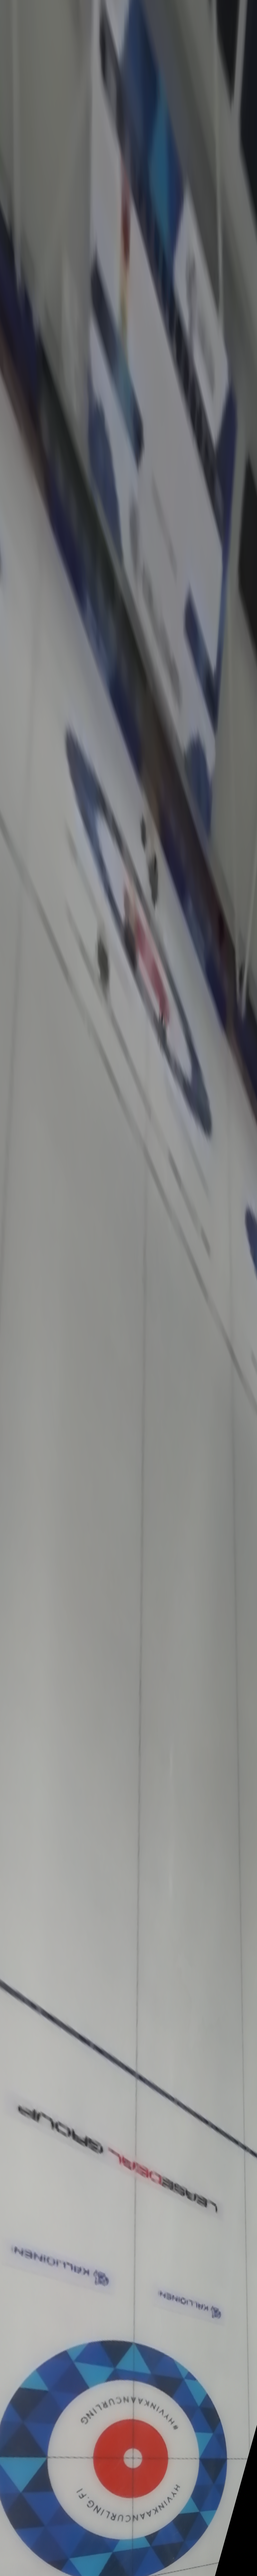
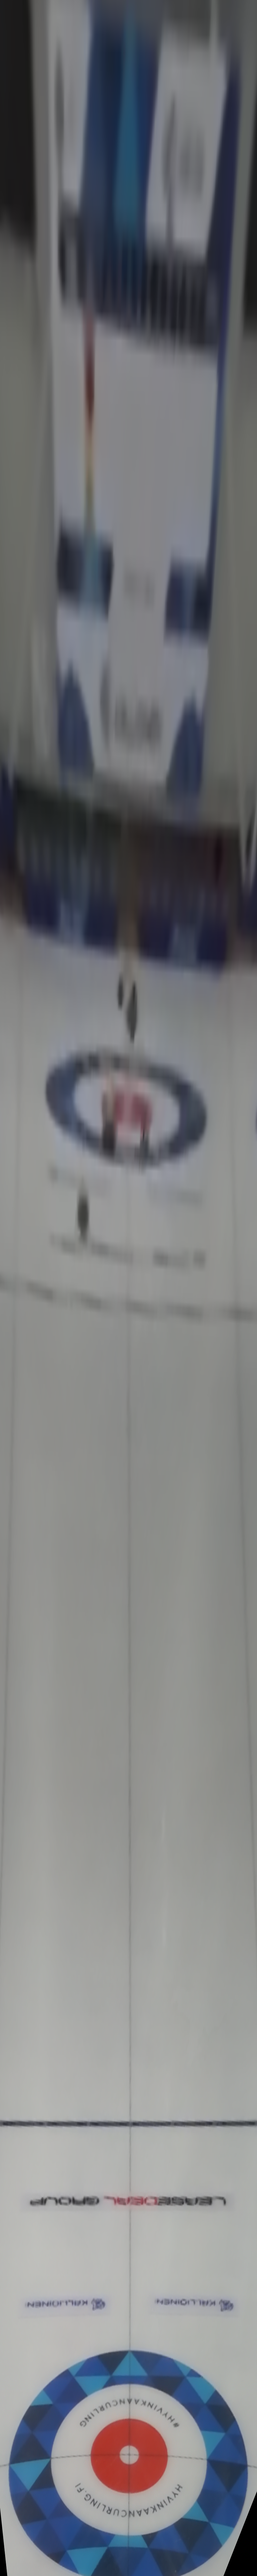
main.py: kaukaisen pesan kierto korjattu - hogline nyt oikeasti vaakatasossa
Aiempi korjaus (RMS-pohjainen top-K-valinta) sai pyoreyden/koon
kuntoon mutta ei havainnut etta koko topdown saattoi silti olla
vaarassa KIERROSSA - ympyra pysyy ympyrana vaikka koko kuva olisi
vinossa, joten pyoreys/koko-mittarit eivat reagoi tahan lainkaan.
Todettiin (numeerisesti + visuaalisesti): hogline oli ~15-18 astetta
vinossa jopa aiemmin "hyvaksytyssa" tuloksessa.

Juurisyy jaljitettiin kahteen tasoon:
1. FINE-haku ei aina tavoita oikeaa kiertoa yhden COARSE-tuloksen
   +-80cm hakuikkunasta - COARSE laajennettu myos TOP-K:ksi
   (COARSE_TOPK=6 x FINE_TOPK_PER_COARSE=6 = 36 kokonaiskandidaattia).
2. Valinta ei huomioinut hoglinen kulmaa lainkaan - lisatty suora
   mittaus (k8.detect_hogline_points + k8.robust_line_angle_from_points)
   jokaisen kandidaatin OMASTA lopullisesta topdown-kuvasta, ja
   painotettu ensisijaisena valintaperusteena pyoreyden lapaisyportin
   (>0.95) sisalla. Kaukainen hogline-alue on tallä kuvakulmalla
   osoitettu (pistediagnostiikka) osittain mainostaulujen peitossa -
   sen matalan luottamuksen (<800) lukemat jatetaan huomiotta
   ettei kohina ohjaisi valintaa (sama, jo aiemmin dokumentoitu
   ilmio kuin kamera7_06.py:n 00008.png/Kivilla.png-tapauksissa).

Validoitu numeerisesti KAIKKI kayttajan vaatimukset, kolmella kuvalla:
- Testi_01_01/leikattu_kalibrointi_moodikuva.png (raportoitu rikki):
  pyoreys 0.97/1.00, hogline 0.01/0.04 astetta, etaisyysvirhe +14.8cm
  (0.4%), keskiviivapoikkeama +10.8cm.
[…]

diff --git a/Testi_01_01/main.py b/Testi_01_01/main.py
@@ -176,7 +176,19 @@ def find_far_house_coarse_seed(blue_mask, near_blue_outer, camera, v_t, v_cl,
 # ja PAATETAAN vasta lopuksi homografian RMS:lla (katso alempana) kumpi
 # niista on oikeasti oikea - sama periaate jota koodi jo kayttaa
 # teoreettisen/varipohjaisen kaukaisen pesan kandidaatin valinnassa.
-FAR_HOUSE_FINE_TOPK = 20
+FAR_HOUSE_FINE_TOPK = 5
+
+# Sama ongelma toistuu jo COARSE-vaiheessa: kaksi lahes identtista
+# moodikuvaa antoivat COARSE:sta TASMALLEEN saman (vaaran) -24 asteen
+# kulman, ja koska FINE-vaiheen hakuikkuna (keskitetty COARSE:n yhteen
+# tulokseen) on vain +-80cm leveä, se ei koskaan tavoita sita (x,y)-
+# aluetta missa oikea (hoglinen mukaan lukien oikeasti vaakasuora)
+# vastaus olisi. Pidetaan siis hengissa myos COARSE_TOPK eri (x,y)-
+# ruudun tulosta, ja jokaisesta ajetaan oma FINE_TOPK_PER_COARSE:n
+# FINE-haku - kokonaismaara pysyy suunnilleen ennallaan (COARSE_TOPK *
+# FINE_TOPK_PER_COARSE ULTRA+geometrinen-korjaus -ajoa).
+COARSE_TOPK = 6
+FINE_TOPK_PER_COARSE = 6
 
 
 def _search_far_house_topk(
@@ -248,13 +260,22 @@ def _search_far_house_topk(
 
 
 def calibrate_camera_from_image_with_seed(filename):
-    """TARKALLEEN kamera9_01.py:n calibrate_camera_from_image, MUUTETTUNA
-    VAIN siten etta kaukaisen pesan COARSE-haun alkuarvaus (center_x/
-    center_y) haetaan datasta (find_far_house_coarse_seed) sokean
-    (0,0)-oletuksen sijaan - katso kommentti taman tiedoston alkupaassa.
-    Kaikki muu (FINE/ULTRA-vaiheet, homografia, vaaristyman korjaus,
-    geometrinen hienosaato) on TASMALLEEN sama koskemattomien k8/k9-
-    funktioiden kutsuja kuin alkuperaisessa."""
+    """kamera9_01.py:n calibrate_camera_from_image, laajennettuna kahdella
+    tavalla (kayttajan pyynnosta, katso kommentit alempana koodissa):
+
+    1) Kaukaisen pesan COARSE-haun alkuarvaus (center_x/center_y) haetaan
+       datasta (find_far_house_coarse_seed) sokean (0,0)-oletuksen sijaan.
+    2) Kaukaisen pesan haku (COARSE/FINE) pitaa hengissa TOP-K parasta eri
+       (x,y)-kandidaattia yhden globaalin parhaan sijasta (katso COARSE_
+       TOPK/FAR_HOUSE_FINE_TOPK:n kommentit), jokainen viedaan ULTRA-
+       vaiheen + taman TASMALLEEN k8.refine_geometric_homography:n lapi,
+       ja PAras lopullinen kandidaatti valitaan sen OIKEASTI lopullisesta
+       pyoreydesta/koosta/hoglinen kulmasta - ei pelkasta pistesovituksen
+       RMS:sta, joka osoittautui riittamattomaksi (katso kommentit).
+
+    Itse k8/k9-funktioihin (haku, pisteytys, homografia, vaaristyman
+    korjaus) EI ole koskettu - kaikki uusi logiikka on tata orkestrointia,
+    joka kutsuu niita moneen kertaan ja vertailee tuloksia."""
 
     frame = cv2.imread(filename)
 
@@ -302,23 +323,26 @@ def calibrate_camera_from_image_with_seed(filename):
         f"({'loytyi' if seed else 'ei loytynyt, kaytetaan oletusta 0,0'})"
     )
 
-    coarse = k8.search_far_house(
+    coarse_candidates = _search_far_house_topk(
         template, frame, camera, v_t, v_cl,
         center_x=seed_x, center_y=seed_y,
         center_range=k8.SEARCH_CENTER_RANGE_CM, center_step=k8.COARSE_CENTER_STEP_CM,
         angle_center=0.0, angle_range=k8.SEARCH_CENTER_RANGE_DEG, angle_step=k8.COARSE_ANGLE_STEP_DEG,
         scale_center=1.2, scale_range=k8.SEARCH_CENTER_RANGE_SCALE, scale_step=k8.COARSE_SCALE_STEP,
-        description="COARSE"
+        description="COARSE", top_k=COARSE_TOPK
     )
-    fine_candidates = _search_far_house_topk(
-        template, frame, camera, v_t, v_cl,
-        center_x=coarse["x_offset_cm"], center_y=coarse["y_offset_cm"],
-        center_range=k8.FINE_CENTER_RANGE_CM, center_step=k8.FINE_CENTER_STEP_CM,
-        angle_center=coarse["angle_deg"], angle_range=k8.FINE_ANGLE_RANGE_DEG,
-        angle_step=k8.FINE_ANGLE_STEP_DEG,
-        scale_center=coarse["scale"], scale_range=k8.FINE_SCALE_RANGE, scale_step=k8.FINE_SCALE_STEP,
-        description="FINE", top_k=FAR_HOUSE_FINE_TOPK
-    )
+
+    fine_candidates = []
+    for coarse_idx, coarse in enumerate(coarse_candidates):
+        fine_candidates.extend(_search_far_house_topk(
+            template, frame, camera, v_t, v_cl,
+            center_x=coarse["x_offset_cm"], center_y=coarse["y_offset_cm"],
+            center_range=k8.FINE_CENTER_RANGE_CM, center_step=k8.FINE_CENTER_STEP_CM,
+            angle_center=coarse["angle_deg"], angle_range=k8.FINE_ANGLE_RANGE_DEG,
+            angle_step=k8.FINE_ANGLE_STEP_DEG,
+            scale_center=coarse["scale"], scale_range=k8.FINE_SCALE_RANGE, scale_step=k8.FINE_SCALE_STEP,
+            description=f"FINE (coarse {coarse_idx})", top_k=FINE_TOPK_PER_COARSE
+        ))
 
     # Jokainen FINE-vaiheen top-K-kandidaatti viedaan ULTRA-vaiheen lapi
     # (tasmalleen sama k8.search_far_house kuin ennen, ei muutoksia
@@ -327,8 +351,13 @@ def calibrate_camera_from_image_with_seed(filename):
     # FINE_TOPK:n kommentti. Sama RMS-vertailu joka jo aiemmin valitsi
     # teoreettisen/varipohjaisen kaukaisen pesan valilla, laajennettu
     # nyt vertailemaan myos naita eri FINE-kandidaatteja keskenaan.
-    best_overall_rms = float("inf")
-    best_overall = None
+    camera_matrix = k8.build_camera_matrix(image_width, image_height)
+    output_w = int(round((k8.OUTPUT_X_MAX_CM - k8.OUTPUT_X_MIN_CM) * k8.PIXELS_PER_CM))
+    output_h = int(round((k8.OUTPUT_Y_MAX_CM - k8.OUTPUT_Y_MIN_CM) * k8.PIXELS_PER_CM))
+
+    best_overall_key = None
+    best_overall_result = None
+    best_overall_rms = None
 
     for fine_idx, fine in enumerate(fine_candidates):
 
@@ -407,74 +436,158 @@ def calibrate_camera_from_image_with_seed(filename):
             k8.physical_to_output_px(near_phys_pts + far_phys_pts)
         )
 
-        print(f"  ULTRA-kandidaatti {fine_idx}: koko homografian RMS = {rms:.3f} cm")
+        # HUOM (kayttajan pyynnosta, korjaa aiemman version puutteen):
+        # pelkka near+far-pisteiden RMS EI riittavasti erottele hyvaa/
+        # huonoa kandidaattia toisistaan - homografia voi sovittaa nama
+        # ~20 pistetta kohtalaisen hyvin (matala RMS) vaikka kaukainen
+        # pesa nayttaisi silti vinolta/vaaran kokoiselta lopullisessa
+        # topdown-kuvassa (todettu: RMS=48.7cm kandidaatti tuotti silti
+        # vinon topdown-kuvan). Myos "halpa" pelkkaan cv2.findHomography-
+        # arvioon (ilman objektiivin vaaristyman korjausta) perustuva
+        # pyoreysmittaus todettiin EPALUOTETTAVAKSI (nayttaa hyvalta
+        # ilman undistort:ia, mutta lopullinen - oikea - tulos huonompi)
+        # - siksi jokaiselle kandidaatille ajetaan TASMALLEEN sama
+        # tayspitka putki kuin voittajalle aiemmin ajettiin (best_k1 +
+        # undistort + k8.refine_geometric_homography, joka tunnistaa
+        # SEKA lahemman etta kaukaisen pesan renkaat JA molemmat
+        # hoglinet SUORAAN lopullisesta warpatusta kuvasta), ja valinta
+        # tehdaan sen OIKEASTI lopullisesta k8.measure_house_quality-
+        # tuloksesta (pyoreys ensisijaisena, koko-virhe ja RMS
+        # tasapelin ratkaisijoina).
+        all_img_pts = near_img_pts + far_img_pts
+        all_phys_pts = near_phys_pts + far_phys_pts
 
-        if rms < best_overall_rms:
+        cand_best_k1, cand_best_k1_rms, cand_baseline_rms = k8.estimate_radial_distortion_k1(
+            all_img_pts, all_phys_pts, camera_matrix
+        )
+        cand_k1_improvement = (
+            (cand_baseline_rms - cand_best_k1_rms) / cand_baseline_rms
+            if cand_baseline_rms > 1e-9 and math.isfinite(cand_baseline_rms) else 0.0
+        )
+
+        if cand_k1_improvement > k8.K1_MIN_RELATIVE_IMPROVEMENT and abs(cand_best_k1) > k8.K1_MIN_MAGNITUDE:
+            cand_dist_coeffs = np.array([cand_best_k1, 0.0, 0.0, 0.0, 0.0], dtype=np.float64)
+        else:
+            cand_best_k1 = 0.0
+            cand_dist_coeffs = np.zeros(5, dtype=np.float64)
+
+        cand_frame_undistorted = cv2.undistort(frame, camera_matrix, cand_dist_coeffs)
+
+        cand_near_pts_frame = k8.undistort_points_px(
+            np.array(near_img_pts, dtype=np.float64), camera_matrix, cand_best_k1
+        )
+        cand_far_pts_frame_init = k8.undistort_points_px(
+            np.array(far_img_pts, dtype=np.float64), camera_matrix, cand_best_k1
+        )
+
+        cand_src_pts = np.vstack([cand_near_pts_frame, cand_far_pts_frame_init]).astype(np.float32)
+        cand_dst_pts = k8.physical_to_output_px(all_phys_pts).astype(np.float32)
+
+        cand_H_init, _ = cv2.findHomography(cand_src_pts, cand_dst_pts, method=0)
+
+        if cand_H_init is None:
+            continue
+
+        cand_near_phys_arr = np.array(near_phys_pts, dtype=np.float64)
+
+        cand_refined = k8.refine_geometric_homography(
+            cand_frame_undistorted, cand_H_init, cand_near_pts_frame, cand_near_phys_arr,
+            output_w, output_h
+        )
+        cand_quality = cand_refined["quality"]
+
+        # HUOM (kayttajan pyynnosta, toinen puute edellisessa versiossa):
+        # pyoreys+koko EIVAT reagoi lainkaan koko topdown-kuvan YHTEISEEN
+        # KIERTOON - ympyra pysyy ympyrana vaikka koko kuva olisi
+        # vaarassa kulmassa. Todettiin etta usea kandidaatti (my "fixed"
+        # tulos mukaan lukien) lapaisi taydella pyoreydella/koolla mutta
+        # hogline oli silti ~15-18 astetta vinossa. Mitataan siis myos
+        # lahemman hoglinen kulma SUORAAN kandidaatin omasta lopullisesta
+        # topdown-kuvasta (k8.detect_hogline_points + k8.robust_line_
+        # angle_from_points, sama funktio jota kaytetaan muualla) ja
+        # painotetaan tata ENSISIJAISESTI - pyoreys/koko toimivat vasta
+        # tasapelin ratkaisijoina saman kulmaluokan sisalla.
+        #
+        # HUOM (bugikorjaus): cand_refined["topdown_raw"] on renderoity
+        # H_current:lla SITA ITERAATIOTA EDELTAVALLA homografialla, ei
+        # lopullisella H_final:lla (topdown_raw tallennetaan iteraation
+        # ALUSSA, H_final=H_new lasketaan VASTA sen jalkeen samalla
+        # kierroksella) - hogline pitaa siis mitata TUOREELTA, H_final:
+        # lla itse warpatulta kuvalta, muuten mittaus on yhden iteraation
+        # jaljessa todellisesta lopputuloksesta.
+        cand_topdown_final = cv2.warpPerspective(
+            cand_frame_undistorted, cand_refined["H_final"], (output_w, output_h)
+        )
+        near_hog_pts_topdown = k8.detect_hogline_points(cand_topdown_final, k8.NEAR_HOGLINE_Y_CM)
+        near_hog_angle, near_hog_conf = k8.robust_line_angle_from_points(near_hog_pts_topdown)
+        far_hog_pts_topdown = k8.detect_hogline_points(cand_topdown_final, k8.FAR_HOGLINE_Y_CM)
+        far_hog_angle, far_hog_conf = k8.robust_line_angle_from_points(far_hog_pts_topdown)
+
+        # HUOM: kaukainen hogline-alue taman videon kuvakulmalla on
+        # osoitettu (suora visuaalinen + pistediagnostiikka) osittain
+        # mainostaulujen/hyllyjen peitossa - matalan luottamuksen
+        # (raakojen pisteiden rivi vaihtelee epajohdonmukaisesti,
+        # ei muodosta oikeaa suoraa) kaukainen lukema on siis KOHINAA,
+        # ei todiste vaarasta kierrosta - sama ilmio jo dokumentoitu
+        # kamera7_06.py:n refine_geometric_homography:ssa 00008.png/
+        # Kivilla.png:lle (katso sen kommentti). Luotetaan kaukaiseen
+        # vain jos luottamus on samaa suuruusluokkaa kuin tyypillinen
+        # aito lahempi havainto (>=800) - muuten sita EI kayteta
+        # rangaistuksena, koska se palkitsisi vain sattumanvaraisesti
+        # "sopivan nakoisia" kohinapisteita.
+        HOGLINE_MIN_TRUST_CONFIDENCE = 800.0
+
+        hog_angle_penalty = abs(near_hog_angle) if near_hog_conf > 0.0 else 999.0
+        if far_hog_conf >= HOGLINE_MIN_TRUST_CONFIDENCE:
+            hog_angle_penalty = max(hog_angle_penalty, abs(far_hog_angle))
+
+        print(
+            f"  ULTRA-kandidaatti {fine_idx}: RMS={rms:.3f} cm, "
+            f"{k8.house_quality_str(cand_quality)}, "
+            f"hogline lahi={near_hog_angle:.2f}deg(luott={near_hog_conf:.0f}) "
+            f"kauko={far_hog_angle:.2f}deg(luott={far_hog_conf:.0f})"
+        )
+
+        # Portti: kelpuutetaan vain kandidaatit joiden pyoreys tayttaa
+        # kayttajan vaatimuksen (>0.95) - muuten hoglinen sattumanvarainen
+        # hyva kulma huonommalla pyoreydella voisi voittaa. Sen sisalla
+        # valinta ensisijaisesti pienimman hogline-poikkeaman mukaan.
+        roundness_gate = cand_quality["worst_ratio"] > 0.95
+        candidate_key = (
+            roundness_gate,
+            -hog_angle_penalty,
+            cand_quality["worst_ratio"],
+            -cand_quality["worst_size_err"],
+            -rms,
+        )
+
+        if best_overall_key is None or candidate_key > best_overall_key:
+            best_overall_key = candidate_key
             best_overall_rms = rms
-            best_overall = (near_img_pts, near_phys_pts, far_img_pts, far_phys_pts)
+            best_overall_result = {
+                "frame": frame,
+                "frame_undistorted": cand_frame_undistorted,
+                "camera_matrix": camera_matrix,
+                "best_k1": cand_best_k1,
+                "H_final": cand_refined["H_final"],
+                "quality": cand_quality,
+                "image_width": image_width,
+                "image_height": image_height,
+                "output_w": output_w,
+                "output_h": output_h,
+                "near_pts_frame": cand_near_pts_frame,
+                "near_phys": cand_near_phys_arr,
+            }
 
-    if best_overall is None:
+    if best_overall_result is None:
         raise RuntimeError("Kaukaiselle pesalle ei saatu yhtaan alkukorrespondenssia.")
 
-    print(f"  Valittu ULTRA-kandidaatti, RMS = {best_overall_rms:.3f} cm")
-
-    near_img_pts, near_phys_pts, far_img_pts, far_phys_pts = best_overall
-
-    all_img_pts = near_img_pts + far_img_pts
-    all_phys_pts = near_phys_pts + far_phys_pts
-
-    camera_matrix = k8.build_camera_matrix(image_width, image_height)
-
-    best_k1, best_k1_rms, baseline_rms = k8.estimate_radial_distortion_k1(
-        all_img_pts, all_phys_pts, camera_matrix
-    )
-    k1_improvement = (
-        (baseline_rms - best_k1_rms) / baseline_rms
-        if baseline_rms > 1e-9 and math.isfinite(baseline_rms) else 0.0
+    print(
+        f"  Valittu ULTRA-kandidaatti: RMS = {best_overall_rms:.3f} cm, "
+        f"{k8.house_quality_str(best_overall_result['quality'])}"
     )
 
-    if k1_improvement > k8.K1_MIN_RELATIVE_IMPROVEMENT and abs(best_k1) > k8.K1_MIN_MAGNITUDE:
-        dist_coeffs = np.array([best_k1, 0.0, 0.0, 0.0, 0.0], dtype=np.float64)
-    else:
-        best_k1 = 0.0
-        dist_coeffs = np.zeros(5, dtype=np.float64)
-
-    frame_undistorted = cv2.undistort(frame, camera_matrix, dist_coeffs)
-
-    near_pts_frame = k8.undistort_points_px(np.array(near_img_pts, dtype=np.float64), camera_matrix, best_k1)
-    far_pts_frame_init = k8.undistort_points_px(np.array(far_img_pts, dtype=np.float64), camera_matrix, best_k1)
-
-    src_pts = np.vstack([near_pts_frame, far_pts_frame_init]).astype(np.float32)
-    dst_pts = k8.physical_to_output_px(all_phys_pts).astype(np.float32)
-
-    H_init, _ = cv2.findHomography(src_pts, dst_pts, method=0)
-
-    if H_init is None:
-        raise RuntimeError("Alustavan homografian laskenta epaonnistui.")
-
-    output_w = int(round((k8.OUTPUT_X_MAX_CM - k8.OUTPUT_X_MIN_CM) * k8.PIXELS_PER_CM))
-    output_h = int(round((k8.OUTPUT_Y_MAX_CM - k8.OUTPUT_Y_MIN_CM) * k8.PIXELS_PER_CM))
-
-    near_phys_arr = np.array(near_phys_pts, dtype=np.float64)
-
-    refined = k8.refine_geometric_homography(
-        frame_undistorted, H_init, near_pts_frame, near_phys_arr, output_w, output_h
-    )
-
-    return {
-        "frame": frame,
-        "frame_undistorted": frame_undistorted,
-        "camera_matrix": camera_matrix,
-        "best_k1": best_k1,
-        "H_final": refined["H_final"],
-        "quality": refined["quality"],
-        "image_width": image_width,
-        "image_height": image_height,
-        "output_w": output_w,
-        "output_h": output_h,
-        "near_pts_frame": near_pts_frame,
-        "near_phys": near_phys_arr,
-    }
+    return best_overall_result
 
 
 # ============================================================
